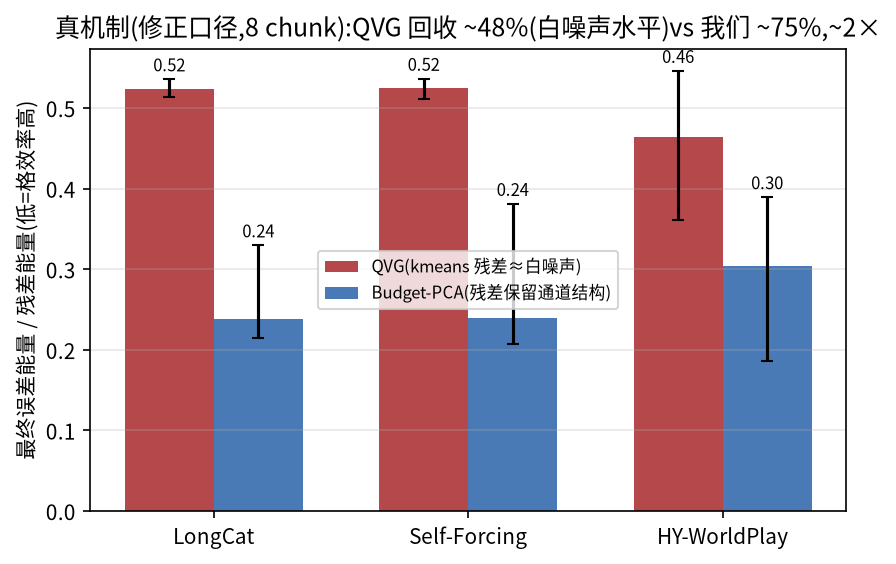
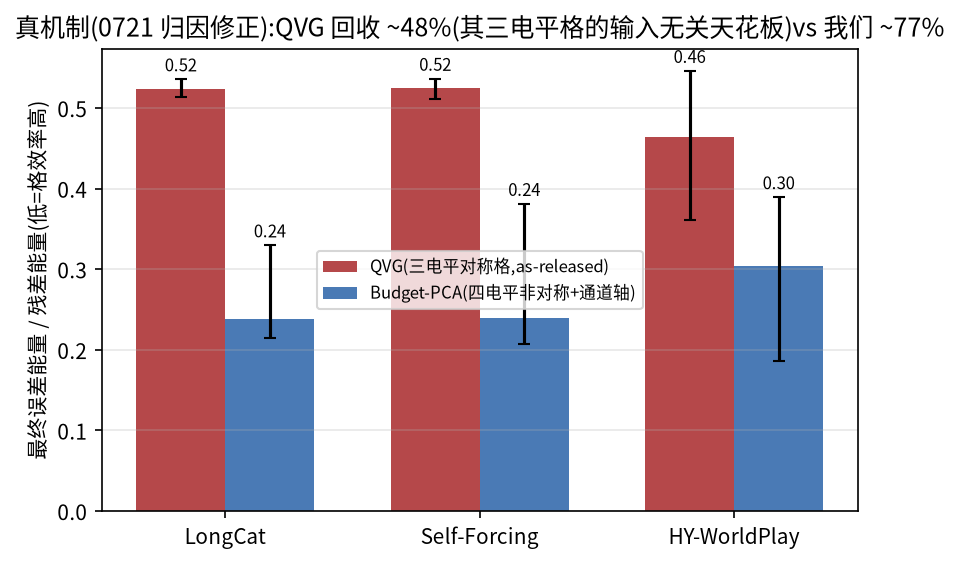
四审(用户质询触发):"白噪声机制"归因撤回,改立"残差格效率分工"
代码事实:QVG 发布 int2 = 三电平对称 absmax 格(get_intx_max_value(2)=1,
四码字用三个)——同时把 paper-diff 三点位假说升级为代码级实锤。
交叉实验(why/grid_cross.py,2 残差×4 格×8 chunk×LC/SF,同预算 0.125):
46-49% 是该格子输入无关天花板(我们的残差上也是 48%);kmeans 残差好格子下
回收 73.6% 并非白噪声;归因 = 电平+非对称 +20pp / 通道轴 +6-10pp / 残差结构
+4pp。端到端反向验证:pcatern 臂(我们换三电平)31.7→23.97,跌破 QVG 27.61
——同格子时减法强者赢,胜利确属格子。正报告 〇/§一/判据① 改写、台账新增
§六、report §4.1/KIVI 框、fig3 标题图例、README、report-0721 重拷同步。

diff --git a/repro/0720/why/grid_cross.py b/repro/0720/why/grid_cross.py
@@ -1,0 +1,83 @@
+#!/usr/bin/env python3
+"""格子×残差交叉分解(0721,用户质询触发):η 差距到底来自电平数、轴、
+还是残差结构?
+
+背景:QVG 发布代码的 int2 = 三电平对称 absmax 格(get_intx_max_value(2)=1,
+{-1,0,+1}×scale)。本实验在同一批真实 chunk 上,把 {kmeans 残差, PCA 残差}
+× {3电平/4电平 × token 轴/channel 轴} 全交叉,所有格子元数据 ≤0.125 bits/elem
+(预算公平;3lvl 只存 scale,4lvl asym 存 scale+zp 故用 B128)。
+输出并入 h1_h2_data.npz 的 {model}_grid_cross(行=chunk,列=8 个格)。
+"""
+import os, sys
+import numpy as np
+import torch
+
+os.chdir("/home/zhizhousha/workspace/video-project/Quant-VideoGen")
+sys.path.insert(0, ".")
+from quant_videogen.kmeans.kmeans_euclid import batch_kmeans_Euclid
+from quant_videogen.sim.quant.lowbit_quantize import blockwise_int2_quantize_triton
+
+ITERS = {"lc": 100, "sf": 2, "hy": 2}
+
+
+def asym4(x, g):
+    sh = x.shape
+    pad = (g - sh[-1] % g) % g
+    xp = torch.nn.functional.pad(x, (0, pad)) if pad else x
+    xb = xp.reshape(*xp.shape[:-1], -1, g)
+    mn, mx = xb.amin(-1, keepdim=True), xb.amax(-1, keepdim=True)
+    sc = ((mx - mn) / 3).clamp_min(1e-8)
+    q = torch.clamp(torch.round((xb - mn) / sc), 0, 3) * sc + mn
+    out = q.reshape(*xp.shape)
+    return out[..., :sh[-1]] if pad else out
+
+
+def tern3(x, g):
+    sh = x.shape
+    pad = (g - sh[-1] % g) % g
+    xp = torch.nn.functional.pad(x, (0, pad)) if pad else x
+    xb = xp.reshape(*xp.shape[:-1], -1, g)
+    sc = xb.abs().amax(-1, keepdim=True).clamp_min(1e-8)
+    q = torch.clamp(torch.round(xb / sc), -1, 1) * sc
+    out = q.reshape(*xp.shape)
+    return out[..., :sh[-1]] if pad else out
+
+
+def rec(R, Rh):
+    return 1 - float(((R - Rh) ** 2).sum()) / float((R ** 2).sum())
+
+
+COLS = ["km_3tok64", "km_3ch64", "km_4tok128", "km_4ch128",
+        "pca_3tok64", "pca_3ch64", "pca_4tok128", "pca_4ch128"]
+res = dict(np.load("repro/0720/why/h1_h2_data.npz"))
+for m in ("lc", "sf"):
+    rows = []
+    for ci in range(8):
+        k = torch.load(f"repro/0720/chunks/{m}/chunk_{ci:03d}.pt", map_location="cuda")["k"].float()
+        B, H, S, D = k.shape
+        X = k.view(B * H, S, D).contiguous()
+        lab, cent, _, _ = batch_kmeans_Euclid(X, n_clusters=256, max_iters=ITERS[m])
+        Rk = (X - torch.gather(cent, 1, lab.long().unsqueeze(-1).expand(-1, -1, D))).view(B, H, S, D)
+        mu = X.mean(1, keepdim=True); Xc = X - mu
+        cov = torch.einsum("bsd,bse->bde", Xc, Xc) / S
+        _, V = torch.linalg.eigh(cov); Vr = V[..., -4:]
+        c = torch.einsum("bsd,bdr->bsr", Xc, Vr)
+        mn, mx = c.amin(-1, keepdim=True), c.amax(-1, keepdim=True)
+        cs = ((mx - mn) / 3).clamp_min(1e-8)
+        chat = torch.clamp(torch.round((c - mn) / cs), 0, 3) * cs + mn
+        Rp = (Xc - torch.einsum("bsr,bdr->bsd", chat, Vr)).view(B, H, S, D)
+        row = []
+        for R in (Rk, Rp):
+            Rt = R.transpose(-1, -2).contiguous()
+            row += [rec(R, blockwise_int2_quantize_triton(R.contiguous(), block_size=64)),
+                    rec(Rt, tern3(Rt, 64)),
+                    rec(R, asym4(R, 128)),
+                    rec(Rt, asym4(Rt, 128))]
+        rows.append(row)
+        print(f"{m} chunk{ci:03d}: " + "  ".join(f"{c_}={v*100:.1f}" for c_, v in zip(COLS, row)), flush=True)
+    arr = np.array(rows)
+    res[f"{m}_grid_cross"] = arr
+    mean = arr.mean(0) * 100
+    print(f"{m} 均值: " + "  ".join(f"{c_}={v:.1f}" for c_, v in zip(COLS, mean)), flush=True)
+np.savez("repro/0720/why/h1_h2_data.npz", **res)
+print("saved {model}_grid_cross")

diff --git a/repro/0720/why-refuted-and-errata.md b/repro/0720/why-refuted-and-errata.md
@@ -92,3 +92,38 @@
 76.8→76.6%),η 表、20/24 格、H2 比值区间结论不变;正报告与图已同步。
 其余四条(HY BPE 漏账、QVG 真实 BPE、Triton ulp、评分脚本路径)属工程侧,
 全记录见 report-0720 §五。
+
+## 六、四审:"白噪声机制"归因撤回(0721,用户质询触发)
+
+**被撤回的论断**(初版 §一 机制叙事):"kmeans 残差≈各向同性白噪声,minmax
+均匀 2-bit 格在白噪声上就是教科书的 ~50% 损失;我们的残差保留通道结构,所以
+格子救得回来"——即把 η 差距(0.52 vs 0.24)归因于**残差的结构差异**。
+
+**质询**:"是不是只是因为我们用了 int2 的四个点位,QVG 只用了三个?"
+
+**核实:质询方向正确,且揭出一个此前漏查的代码事实**——QVG 发布代码的 int2
+量化器(`sim/quant/lowbit_quantize.py::get_intx_max_value(2)=1`)本来就是
+**三电平对称 absmax 格**({−1,0,+1}×scale,四个码字只用三个),不仅是 paper
+baseline,其自己方法的残差格也是。交叉实验(`why/grid_cross.py`,
+{两种残差}×{3/4 电平 × token/通道轴},全部同预算 0.125 bits/elem,8 chunk)
+判决:
+
+1. **46-49% 是三电平格的输入无关天花板**:喂它我们的 PCA 残差同样 47.5-47.7%,
+   换通道轴也只有 47.5-50.1%——"钉死"的签名属于格子,不属于白噪声;
+2. **kmeans 残差不是救不回的白噪声**:四电平通道轴格在它上面回收 72-74%;
+3. **归因分解**:电平数+非对称 ≈ +20pp(主因)、通道轴 ≈ +6-10pp、残差结构
+   ≈ +4pp(只在通道轴上表达)。
+
+**端到端验证**(pcaternkaxvaxfp8 臂,LC 10 prompts,f93):把 Budget-PCA
+的残差格换成同款三电平,PSNR 从 ~31.7 掉到 **23.97**(−7.7dB),并**跌破
+QVG 的 27.61**——同样用三电平格时,减法更强的 kmeans 反而赢,与 chunk 级
+预测(最终误差 ≈ 残差能量 × 常数 0.52)完全一致:整体胜利确实来自格子,
+不来自残差结构。
+
+**修正后的机制**:"残差结构分工" → **"残差格效率分工"**——胜负手是同预算
+下的格子设计质量(码字用满 + 非对称 + 对轴),残差结构降级为 +4pp 次要因子;
+正报告 §〇/§一、判据①已同步改写。η 表的实测数字不变(它量的是两条管线
+as-released 的真实表现),变的是"为什么差"的解释。
+
+连带说明:此事实同时把 paper-diff 的"三点位格"假说从 E1 推断升级为**代码级
+实锤**(其发布仓库的共享 int2 量化器就是三电平)。